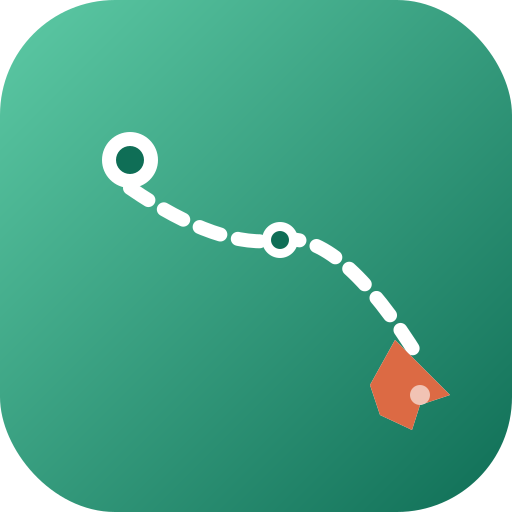
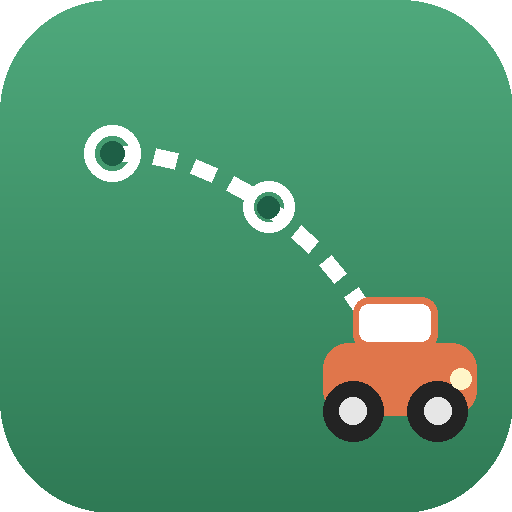
アプリアイコンを車ベースのデザインに変更（ルート+オレンジの車）

diff --git a/sw.js b/sw.js
@@ -1,4 +1,4 @@
-const CACHE_NAME = 'sedori-route-v48';
+const CACHE_NAME = 'sedori-route-v49';
 const ASSETS = [
   './',
   './index.html',
